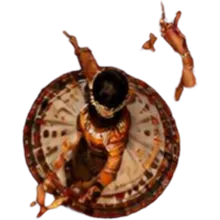
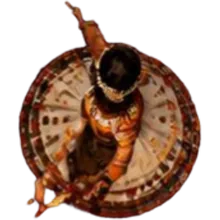
Garba Circle: garba music, reveal button in one place, remove stray hand
- Original synthesised garba groove (dhol, dandiya clicks, manjira, harmonium drone,
  shehnai tune in raag Khamaj); the beat game now follows the song's beat
- 'Tap to dance on' is the same painted button under both photo and reason reveals
- Dancer images keep only the dancer (one had a detached hand)

Claude-Session: https://claude.ai/code/session_01421VuoqhFcSd1MVsboy9pA

diff --git a/garba-circle/index.html b/garba-circle/index.html
@@ -77,7 +77,7 @@ p{margin:0}
 .btn.ghost{width:min(80vw,280px);aspect-ratio:600/105;background-image:url(img/btn-ghost.webp);padding:0 2rem;color:var(--gold-soft);font-size:1.2rem;filter:none;text-shadow:none}
 .btn.start{animation:breathe 2.4s ease-in-out infinite}
 @keyframes breathe{50%{filter:drop-shadow(0 6px 28px rgba(255,60,140,.85))}}
-.btn:focus-visible,.dhol:focus-visible,.icon-btn:focus-visible,.linkbtn:focus-visible{outline:3px solid var(--gold);outline-offset:4px}
+.btn:focus-visible,.dhol:focus-visible,.icon-btn:focus-visible{outline:3px solid var(--gold);outline-offset:4px}
 .btn[hidden]{display:none}
 
 /* ===== the circle ===== */
@@ -135,9 +135,6 @@ body:not(.playing) .feedback{display:none}
 .frame .ph img{width:100%;height:100%;object-fit:cover;display:block}
 .cap{font:400 clamp(1.8rem,9vw,2.4rem)/1.08 var(--display);max-width:16ch}
 .ntag{display:inline-block;font:400 1.05rem/1 var(--display);padding:9px 22px;border-radius:6px;background:var(--c);color:var(--tagInk,#FFF4DF);box-shadow:0 0 0 1.5px #E9B44C,0 0 0 4px rgba(10,9,32,.6),0 0 0 5.5px #B8862F}
-.linkbtn{appearance:none;border:0;background:none;cursor:pointer;font:400 1.25rem/1 var(--display);color:var(--cream);padding:10px 16px}
-.arch .linkbtn{color:var(--crimson);font-size:1.1rem;padding:6px 10px;margin-top:4px}
-.linkbtn::after{content:" ›"}
 
 /* letter: the painted scroll rising from the garbo */
 .scroll-wrap{position:relative;width:min(86vw,350px);display:flex;flex-direction:column;align-items:center}
@@ -273,7 +270,7 @@ canvas#petals{position:absolute;inset:0;width:100%;height:100%;pointer-events:no
 <!-- pop-out reveal (a reason card or a photo in the mirror frame) -->
 <div class="veil" id="veil" hidden role="dialog" aria-modal="true" aria-labelledby="cardTag">
   <div id="reveal"></div>
-  <button class="linkbtn" id="cardBtn">Tap to dance on</button>
+  <button class="btn next" id="cardBtn">Tap to dance on</button>
 </div>
 </div><!-- /stage -->
 
@@ -508,26 +505,62 @@ function frame(now){
   requestAnimationFrame(frame);
 }
 
-/* ---------- audio: dhol + bells (synthesised, no files) ---------- */
-let ctx, master, muted = false;
+/* ---------- audio: an original garba groove + dhol taps (all synthesised, no music files) ---------- */
+let ctx, master, bus, muted = false;
 function ensureAudio(){
   if (isAuto) return;
   const AC = window.AudioContext || window.webkitAudioContext; if (!AC) return;
-  if (!ctx){ ctx = new AC(); master = ctx.createGain(); master.gain.value = .5; master.connect(ctx.destination); }
+  if (!ctx){
+    ctx = new AC(); master = ctx.createGain(); master.gain.value = muted ? 0 : .6; master.connect(ctx.destination);
+    bus = ctx.createGain(); bus.gain.value = .7; bus.connect(master);          // the song sits under the player's own taps
+  }
   if (ctx.state === "suspended") ctx.resume();
 }
-function dhum(t, vol = .9){
+document.addEventListener("visibilitychange", () => { if (!ctx) return; document.hidden ? ctx.suspend() : ctx.resume(); });
+const hz = m => 440 * Math.pow(2, (m - 69) / 12);
+function env(g, t, a, peak, rel){ g.gain.setValueAtTime(0.0001, t); g.gain.exponentialRampToValueAtTime(peak, t + a); g.gain.exponentialRampToValueAtTime(0.0001, t + a + rel); }
+let noiseBuf;
+function noise(){ if (!noiseBuf){ const n = ctx.sampleRate; noiseBuf = ctx.createBuffer(1, n, n); const d = noiseBuf.getChannelData(0); for (let i = 0; i < n; i++) d[i] = Math.random() * 2 - 1; }
+  const s = ctx.createBufferSource(); s.buffer = noiseBuf; return s; }
+function dhum(t, vol = .9, out = master){                     // dhol bass side
   const o = ctx.createOscillator(), g = ctx.createGain();
-  o.type = "sine"; o.frequency.setValueAtTime(130, t); o.frequency.exponentialRampToValueAtTime(52, t + .25);
-  g.gain.setValueAtTime(vol, t); g.gain.exponentialRampToValueAtTime(.001, t + .4);
-  o.connect(g); g.connect(master); o.start(t); o.stop(t + .45);
+  o.type = "sine"; o.frequency.setValueAtTime(140, t); o.frequency.exponentialRampToValueAtTime(55, t + .22);
+  env(g, t, .004, vol, .38); o.connect(g); g.connect(out); o.start(t); o.stop(t + .45);
 }
-function tak(t, vol = .35){
-  const len = ctx.sampleRate * .08, buf = ctx.createBuffer(1, len, ctx.sampleRate), d = buf.getChannelData(0);
-  for (let i = 0; i < len; i++) d[i] = (Math.random() * 2 - 1) * Math.pow(1 - i / len, 3);
-  const s = ctx.createBufferSource(), f = ctx.createBiquadFilter(), g = ctx.createGain();
-  f.type = "bandpass"; f.frequency.value = 2200; f.Q.value = 1.2; g.gain.value = vol;
-  s.buffer = buf; s.connect(f); f.connect(g); g.connect(master); s.start(t);
+function tak(t, vol = .35, out = master){                     // dhol treble side
+  const s = noise(), f = ctx.createBiquadFilter(), g = ctx.createGain();
+  f.type = "bandpass"; f.frequency.value = 2400; f.Q.value = 1.4; env(g, t, .002, vol, .07);
+  s.connect(f); f.connect(g); g.connect(out); s.start(t); s.stop(t + .1);
+  const o = ctx.createOscillator(), g2 = ctx.createGain(); o.frequency.value = 520; env(g2, t, .002, vol * .5, .09);
+  o.connect(g2); g2.connect(out); o.start(t); o.stop(t + .12);
+}
+function dandiya(t, vol = .22){                               // two wooden sticks meeting
+  [0, .018].forEach((d, k) => { const s = noise(), f = ctx.createBiquadFilter(), g = ctx.createGain();
+    f.type = "bandpass"; f.frequency.value = k ? 1650 : 1250; f.Q.value = 6; env(g, t + d, .001, vol, .045);
+    s.connect(f); f.connect(g); g.connect(bus); s.start(t + d); s.stop(t + d + .07); });
+}
+function manjira(t, vol = .05, len = .25){                    // little cymbals
+  const s = noise(), f = ctx.createBiquadFilter(), g = ctx.createGain();
+  f.type = "highpass"; f.frequency.value = 6500; env(g, t, .002, vol, len);
+  s.connect(f); f.connect(g); g.connect(bus); s.start(t); s.stop(t + len + .05);
+  const o = ctx.createOscillator(), g2 = ctx.createGain(); o.type = "triangle"; o.frequency.value = 4186; env(g2, t, .002, vol * .4, len * 1.4);
+  o.connect(g2); g2.connect(bus); o.start(t); o.stop(t + len * 1.5);
+}
+function drone(t, len){                                       // harmonium Sa-Pa-Sa held under everything
+  [[50, .05], [57, .035], [62, .03]].forEach(([m, v]) => { const o = ctx.createOscillator(), f = ctx.createBiquadFilter(), g = ctx.createGain();
+    o.type = "sawtooth"; o.frequency.value = hz(m); f.type = "lowpass"; f.frequency.value = 900;
+    g.gain.setValueAtTime(0.0001, t); g.gain.linearRampToValueAtTime(v, t + .15); g.gain.setValueAtTime(v, t + len - .1); g.gain.linearRampToValueAtTime(0.0001, t + len + .05);
+    o.connect(f); f.connect(g); g.connect(bus); o.start(t); o.stop(t + len + .1); });
+}
+function shehnai(m, t, len, vol = .085){                      // reedy lead with a gentle vibrato
+  const f = ctx.createBiquadFilter(), g = ctx.createGain(), lfo = ctx.createOscillator(), lg = ctx.createGain();
+  f.type = "lowpass"; f.frequency.value = 2600; f.Q.value = 3;
+  lfo.frequency.value = 5.6; lg.gain.setValueAtTime(0, t); lg.gain.linearRampToValueAtTime(hz(m) * .012, t + Math.min(.25, len * .6));
+  lfo.connect(lg);
+  [["sawtooth", 0], ["square", 4]].forEach(([type, det]) => { const o = ctx.createOscillator(); o.type = type; o.frequency.value = hz(m); o.detune.value = det;
+    lg.connect(o.frequency); o.connect(f); o.start(t); o.stop(t + len + .12); });
+  g.gain.setValueAtTime(0.0001, t); g.gain.linearRampToValueAtTime(vol, t + .035); g.gain.setValueAtTime(vol * .85, t + Math.max(.04, len - .06)); g.gain.linearRampToValueAtTime(0.0001, t + len + .1);
+  f.connect(g); g.connect(bus); lfo.start(t); lfo.stop(t + len + .12);
 }
 function bell(freq = 1320){
   if (!ctx) return; const t = ctx.currentTime;
@@ -535,8 +568,40 @@ function bell(freq = 1320){
     o.frequency.value = f; g.gain.setValueAtTime(v, t); g.gain.exponentialRampToValueAtTime(.001, t + 1.6);
     o.connect(g); g.connect(master); o.start(t); o.stop(t + 1.7); });
 }
+
+/* The tune: our own melody in raag Khamaj (Sa = D). Each note is [swara in semitones from Sa, start eighth, length in eighths]. */
+const SA = 62, EIGHTH = .3;   // 0.3s eighths = the game's 600ms beat
+const A = [ [[7,0,2],[9,2,1],[7,3,1],[5,4,1],[4,5,1],[5,6,2]],
+            [[4,0,1],[2,1,1],[4,2,2],[0,4,4]],
+            [[4,0,1],[5,1,1],[7,2,2],[9,4,1],[10,5,1],[9,6,2]],
+            [[7,0,2],[5,2,1],[4,3,1],[2,4,2],[0,6,2]] ];
+const B = [ [[12,0,2],[10,2,1],[9,3,1],[7,4,2],[9,6,1],[10,7,1]],
+            [[12,0,3],[14,3,1],[12,4,2],[10,6,2]],
+            [[9,0,1],[7,1,1],[9,2,1],[10,3,1],[12,4,2],[9,6,2]],
+            [[7,0,1],[5,1,1],[4,2,1],[5,3,1],[4,4,1],[2,5,1],[0,6,2]] ];
+const SONG = [...A, ...A, ...B, ...A];
+const Music = { on:false, bar:0, next:0, timer:null, t0:0,
+  start(){
+    if (!ctx || this.on) return;
+    this.on = true; this.bar = 0; this.t0 = this.next = ctx.currentTime + .12;
+    this.tick(); this.timer = setInterval(() => this.tick(), 100);
+    return this.t0;
+  },
+  tick(){ while (this.next < ctx.currentTime + .5){ this.playBar(this.next, this.bar); this.next += 8 * EIGHTH; this.bar++; } },
+  playBar(t, i){
+    const e = k => t + k * EIGHTH + (k % 2 ? .035 : 0);           // a little garba lilt on the off-beats
+    drone(t, 8 * EIGHTH);
+    [[0,.75],[3,.5],[4,.65],[6,.45]].forEach(([k, v]) => dhum(e(k), v, bus));
+    [[1,.1],[2,.22],[5,.2],[7,.16]].forEach(([k, v]) => tak(e(k), v, bus));
+    if (i >= 1){ dandiya(e(2)); dandiya(e(6)); }
+    for (let k = 1; k < 8; k += 2) manjira(e(k), .03, .12);
+    if (i % 2 === 0) manjira(t, .06, .9);
+    if (i < 2) return;                                             // two bars of drums first, then the tune
+    SONG[(i - 2) % SONG.length].forEach(([sw, at, len]) => shehnai(SA + sw, e(at), len * EIGHTH - .02));
+  }
+};
 $("#muteBtn").addEventListener("click", e => {
-  muted = !muted; if (master) master.gain.value = muted ? 0 : .5;
+  muted = !muted; if (master) master.gain.value = muted ? 0 : .6;
   e.currentTarget.setAttribute("aria-pressed", muted);
   e.currentTarget.setAttribute("aria-label", muted ? "Unmute music" : "Mute music");
   e.currentTarget.textContent = muted ? "✕" : "♪";
@@ -547,15 +612,14 @@ const BEAT = 600, NEED = 4;
 let playing = false, beatT0 = 0, beatTimer, night = 0, score = 0, paused = false;
 function now(){ return performance.now(); }
 function scheduleBeats(){
-  clearInterval(beatTimer);
-  let n = 0;
+  /* the ring pulses on the song's beat; without sound it keeps its own steady beat */
+  clearInterval(beatTimer); clearTimeout(beatTimer);
   const tickBeat = () => {
     if (!playing || paused) return;
     const p = $("#pulse"); p.classList.remove("go"); void p.offsetWidth; p.classList.add("go");
-    if (ctx){ const t = ctx.currentTime; (n % 2 === 0) ? dhum(t, .55) : tak(t, .22); }
-    n++;
   };
-  beatT0 = now(); tickBeat(); beatTimer = setInterval(tickBeat, BEAT);
+  const wait = BEAT - ((now() - beatT0) % BEAT);
+  beatTimer = setTimeout(() => { tickBeat(); beatTimer = setInterval(tickBeat, BEAT); }, wait);
 }
 const GOOD = ["On the beat!","Beautiful","Keep going","Shabaash!","Perfect step"];
 function onDhol(){
@@ -577,7 +641,10 @@ setInterval(() => { if (playing && !paused) target = Math.max(.9, target - .25);
 $("#startBtn").addEventListener("click", startRaas);
 function startRaas(){
   ensureAudio();
-  $("#startBtn").hidden = true; $("#play").hidden = false; $("#muteBtn").hidden = false;
+  beatT0 = now();
+  const t0 = ctx && Music.start();
+  if (t0) beatT0 = now() + (t0 - ctx.currentTime + (ctx.outputLatency || ctx.baseLatency || 0)) * 1000;   // tap timing follows the song
+  $("#startBtn").hidden = true; $("#play").hidden = false; $("#muteBtn").hidden = !ctx;
   document.body.classList.add("playing"); requestAnimationFrame(fitProps);
   playing = true; target = 1.1; nextNight(true);
 }
@@ -608,7 +675,6 @@ function showCard(i){
     f.append(fr, ph); box.appendChild(f);
     if (it.caption) box.appendChild(mk("p", "cap gold", it.caption));
     const t = mk("span", "ntag", label); t.id = "cardTag"; box.appendChild(t);
-    veil.appendChild(btn); btn.className = "linkbtn";
   } else {
     /* a reason (or an empty night's Devi) on the painted arch card */
     box.style.cssText = "";
@@ -616,9 +682,9 @@ function showCard(i){
     card.appendChild(t);
     if (it && it.t === "reason") card.appendChild(mk("p", "big", it.text));
     else { card.appendChild(mk("p", "big", nt.devi)); card.appendChild(mk("p", "small", "One more round together.")); }
-    card.appendChild(btn); btn.className = "linkbtn";
     box.appendChild(card);
   }
+  veil.appendChild(btn); btn.className = "btn next";   /* same button, same place, for photos and reasons */
   btn.textContent = i === 8 ? "Light up the circle" : "Tap to dance on";
   veil.hidden = false;
   if (!isPreview && !isAuto) btn.focus({ preventScroll:true });
